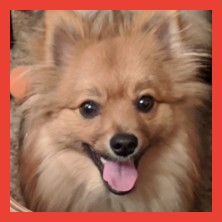
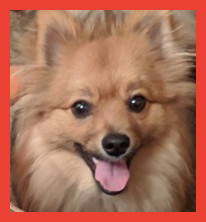
clab 2: make released test image non square

diff --git a/staging_labs/clab2/spec.md b/staging_labs/clab2/spec.md
@@ -230,7 +230,7 @@ You will need to use an additional variable to temporarily store a pixel value t
 {: .note }
 The custom filter is required for credit.
 
-Design and implement your own image filter!
+Design and implement your own image filter! Note that the filtered image should remain the same dimension measurements as the original image.
 
 Implement this in `Filters.java` inside of
 
